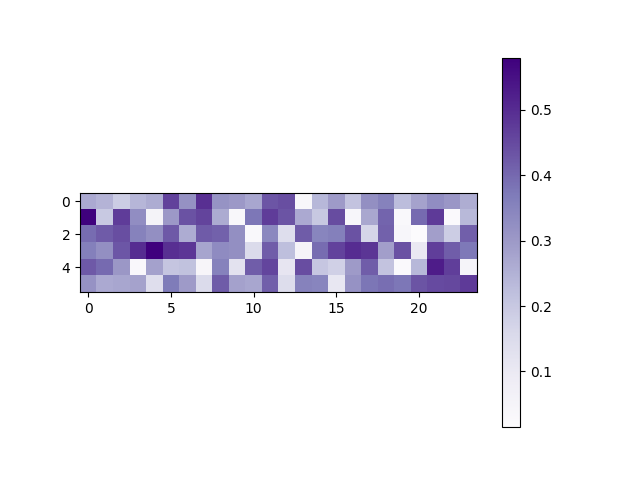
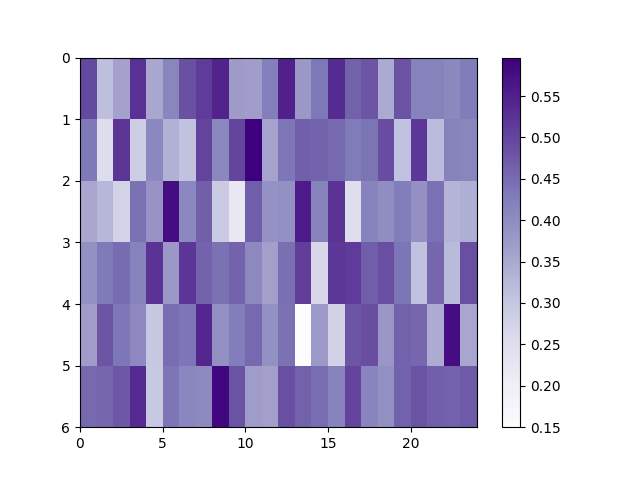
Adding MLP (but everything is still bugged)

diff --git a/ROME.py b/ROME.py
@@ -3,7 +3,7 @@ import json
 import torch
 from transformers import AutoTokenizer, AutoModelForCausalLM
 
-from hooks import FullModelHooks, hidden_patch_hook_fn
+from hooks import FullModelHooks, hidden_patch_hook_fn, additive_noise, mlp_patch_interval, attn_patch_interval
 
 
 # device = 'cuda' if torch.cuda.is_available() else 'cpu'
@@ -11,7 +11,7 @@ device = 'cpu'
 
 from transformers import GPT2Tokenizer, GPT2LMHeadModel
 
-model_size = 'xl'
+model_size = 'large'
 size2suffix = {'small':'', 'medium':'-medium', 'large':'-large', 'xl':'-xl'}
 num_heads = {'small':12, 'medium':24, 'large':36, 'xl':48}[model_size]
 
@@ -43,29 +43,44 @@ output = model(**encoded_input)
 # print(f'{max_token = }')
 
 # save outputs of model on correct text -> very expensive computation, maybe iteratively save to disk instead?
-correct_hidden = {key: hook.features[0][0] for key, hook in hooks.items() if key.startswith('transformer->h->')}
+correct_hidden = {key: hook.features[0] for key, hook in hooks.items() if key.startswith('transformer->h->')}
 
-# add noise hook
-def noise_func(output):
-    noise = 0.1 * torch.randn_like(output[:,:4]) # TODO fix hardcoding of subject position
-    output[:,:4] += noise
-    return output
+hooks.add_custom_hook('transformer->wte', 'embedding_noise', additive_noise(indices=":4", std=0.1))
 
-hooks.add_custom_hook('transformer->wte', 'embedding_noise', noise_func)
+results = dict(mlp=dict(), attn=dict(), hidden=dict())
 
-results = dict()
+# mlp
+# for center in range(num_heads):
+#     results['mlp'][center] = dict()
+#     for pos in range(num_tokens):
+#         new_keys = []
+#         for layer in range(max(0,center-5), min(num_heads, center+5)): #TODO currently removing and recreating hooks too often -> make as sliding window
+#             old_key = f'transformer->h->{layer}->mlp'
+#             new_key = f'patch_h{layer}_mlp_pos{pos}'
+#             new_keys.append(new_key)
+#             hooks.add_custom_hook(old_key, new_key, hidden_patch_hook_fn(pos, correct_hidden[old_key][pos]))
+#         output = model(**encoded_input)
 
+#         prob = torch.softmax(output["logits"][0,-1,:], 0)[correct_id].item()
+#         results['mlp'][center][pos] = prob
+        
+#         for key in new_keys:
+#             hooks.remove_hook(key)
+
+#TODO bug fixing in additive noise and hidden patch
+
+# hidden
 for head_num in range(num_heads):
-    results[head_num] = dict()
+    results['hidden'][head_num] = dict()
     for pos in range(num_tokens):
         old_key = f'transformer->h->{head_num}'
         new_key = f'patch_h{head_num}_pos{pos}'
-        hooks.add_custom_hook(old_key, new_key, hidden_patch_hook_fn(pos, correct_hidden[old_key][pos]))
+        hooks.add_custom_hook(old_key, new_key, hidden_patch_hook_fn(pos, correct_hidden[old_key][0][pos]))
 
         output = model(**encoded_input)
 
         prob = torch.softmax(output["logits"][0,-1,:], 0)[correct_id].item()
-        results[head_num][pos] = prob
+        results['hidden'][head_num][pos] = prob
 
         hooks.remove_hook(new_key)
 

diff --git a/plot_CBS.py b/plot_CBS.py
@@ -1,0 +1,51 @@
+from itertools import product
+import json
+
+import matplotlib.pyplot as plt
+from matplotlib import colors
+
+import numpy as np
+
+model_size = 'large'
+num_heads = {'small':12, 'medium':24, 'large':36, 'xl':48}[model_size]
+with open(f'./rome_results_{model_size}.json', 'r') as f:
+    data = json.load(f)
+
+
+#########
+
+
+prob_array = np.zeros((6,num_heads))
+
+for num_heads, pos in product(range(num_heads), range(6)):
+    prob_array[pos, num_heads] = data['hidden'][str(num_heads)][str(pos)]
+
+plt.figure(figsize=(10,6))
+plt.xticks(np.arange(0,num_heads,5)+0.5, np.arange(0,num_heads,5))
+plt.yticks()
+plt.yticks(np.arange(0,7)+0.5, ["The*", "Big*", "Bang*", "Theory*", "premie", "res", "on"])
+# im = plt.imshow(prob_array, cmap="Purples")
+im = plt.pcolormesh(prob_array, cmap="Purples")
+plt.gca().invert_yaxis()
+cbar = plt.colorbar(im)
+cbar.ax.set_title("p(CBS)", y=-0.07)
+plt.savefig(f'./{model_size}_hidden.png')
+
+
+#########
+
+# prob_array = np.zeros((6,num_heads))
+
+# for num_heads, pos in product(range(num_heads), range(6)):
+#     prob_array[pos, num_heads] = data['mlp'][str(num_heads)][str(pos)]
+
+# plt.figure(figsize=(10,6))
+# plt.xticks(np.arange(0,num_heads,5)+0.5, np.arange(0,num_heads,5))
+# plt.yticks()
+# plt.yticks(np.arange(0,7)+0.5, ["The*", "Big*", "Bang*", "Theory*", "premie", "res", "on"])
+# # im = plt.imshow(prob_array, cmap="Purples")
+# im = plt.pcolormesh(prob_array, cmap="Greens")
+# plt.gca().invert_yaxis()
+# cbar = plt.colorbar(im)
+# cbar.ax.set_title("p(CBS)", y=-0.07)
+# plt.savefig(f'./{model_size}_mlp.png')

diff --git a/hooks.py b/hooks.py
@@ -146,9 +146,9 @@ class FullModelHooks:
         
         # check if hook name already exists
         if hook_key in self.hooks["basic_hooks"]:
-            raise ValueError(f"Hook with name {hook_name} already exist in self.basic_hooks!")
+            raise ValueError(f"Hook with name {hook_key} already exist in self.basic_hooks!")
         if hook_key in self.hooks["custom_hooks"]:
-            raise ValueError(f"Hook with name {hook_name} already exist in self.custom_hooks!")
+            raise ValueError(f"Hook with name {hook_key} already exist in self.custom_hooks!")
 
         # parse name
         keys = layer_name.split('->')
@@ -171,7 +171,7 @@ class FullModelHooks:
             self.hooks["custom_hooks"][hook_key].close()
             del self.hooks["custom_hooks"][hook_key]
         else:
-            logging.warn('Could not find hook to delete!')
+            logging.warn(f'Could not find hook {hook_key} to delete!')
 
 
 def recursive_module_dict(model: torch.nn.Module) -> OrderedDict:
@@ -228,6 +228,15 @@ def hidden_patch_hook_fn(position, replacement_tensor):
         return output
     return func
 
+def mlp_patch_interval(center, width, replacement_tensor):
+    inner = replace_activation(f"{center-width//2}:{center+width//2}", replacement_tensor)
+    def func(output):
+        output[...] = innter(output)
+        return output
+    return func
+
+def attn_patch_interval(center, width, replacement_tensor):
+    pass #TODO
  
 def additive_noise(indices, mean=0, std=0.1):
     slice_ = create_slice(indices)
